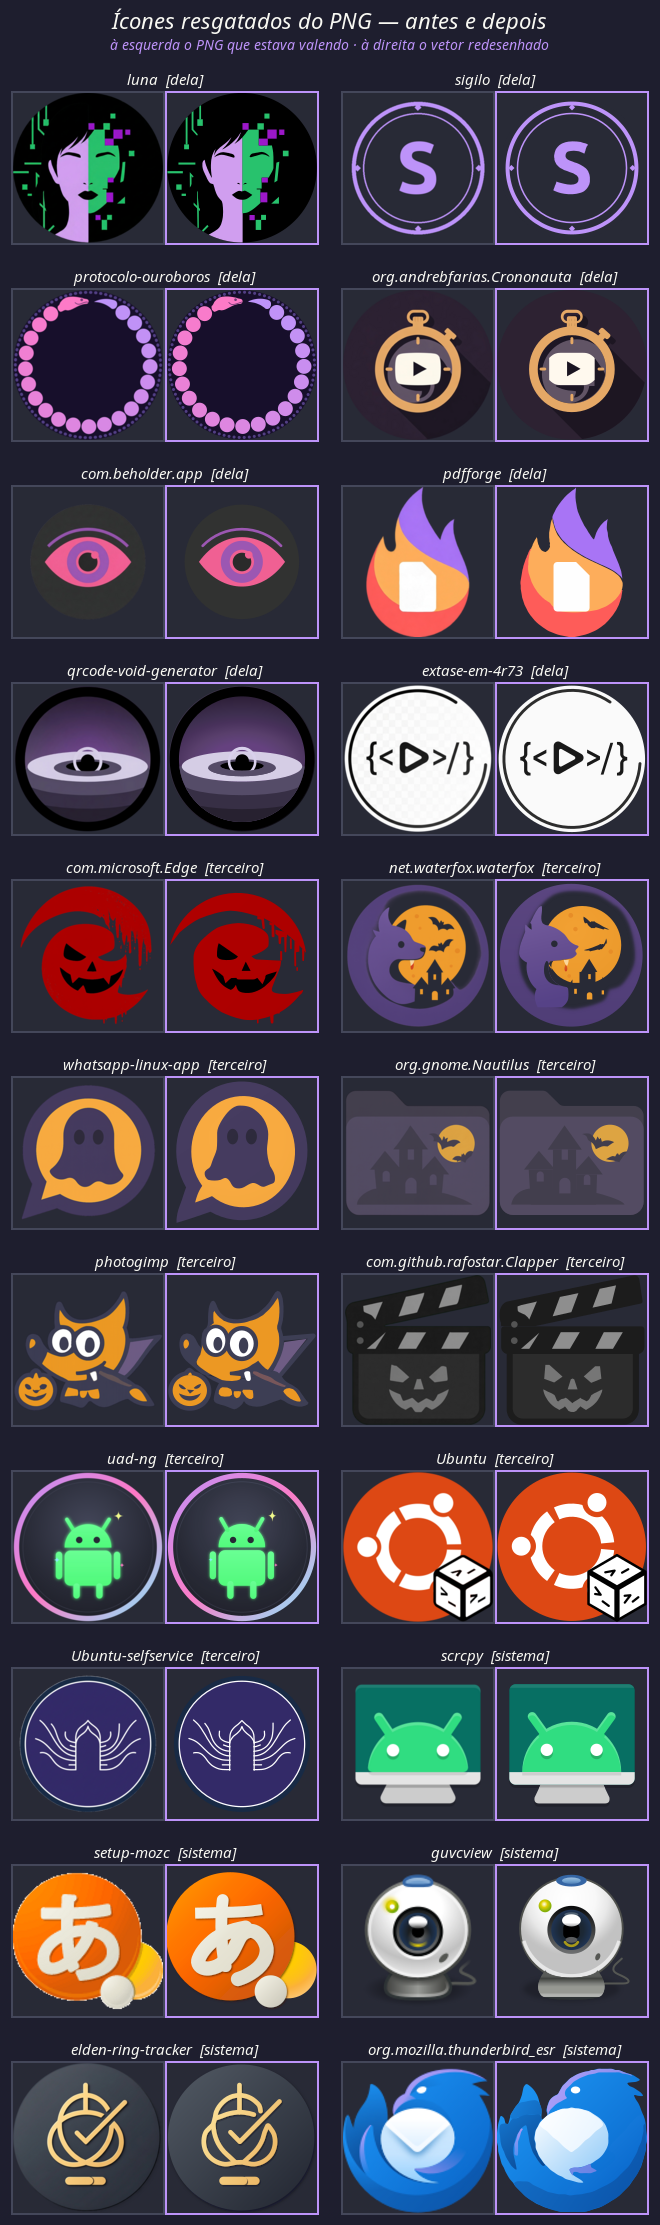
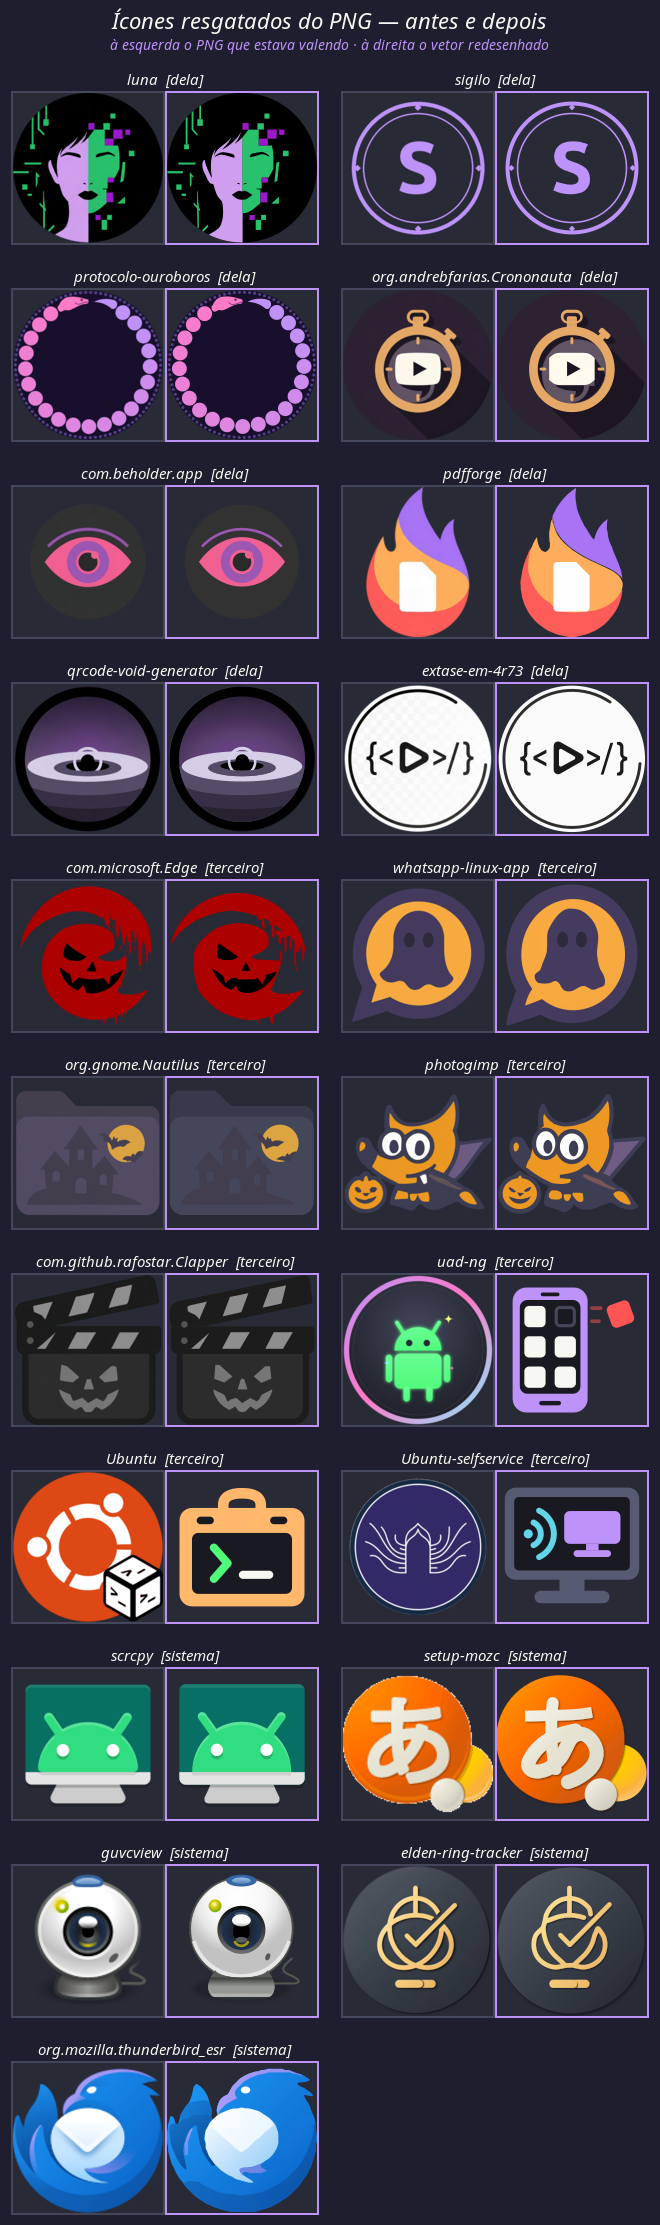
fix(textos): revisao da P67 - o mauve antes do verbo, a folha refeita pela direita e a trava da nota
A revisão da P67 achou a frase que a varredura deixou passar e a forma que o
teste não travava. Corrigido, com o teste antes da correção:

1. bin/meow, o comentário do chk_pastasxdg dizia no presente «do pack
   Catppuccin» e «o mauve volta sozinho». Passa ao desenho do pack no ar
   quando o PASTAS_XDG pede, e à pasta que volta à cor das outras.
2. tests/frases-velhas.sh: a classe 3 ganha a cor ANTES do verbo («o mauve
   volta»), que era a forma do bin/meow, e a classe 1 o «ainda» («o flavor que
   ainda não foi fotografado»). Com o teste novo e o bin/meow de antes, a
   classe 3 reprova na linha 473; as oito frases de prova da revisão, num
   arquivo novo de uma cópia descartável, reprovam todas.
3. O «?» do PASTAS_XDG (meow.conf.exemplo) e o pastas.map diziam «ao lado das
   mauve CHEIAS» duas linhas abaixo da pergunta «na cor das outras pastas».
   Passam à cor das outras pastas, com o mauve de fábrica ancorado em 08/08.
4. A folha ANTES-E-DEPOIS.png foi refeita pela direita: cada par recortado da
   de 12/09, a célula da direita dos cinco desenhos que mudaram trocada pelo
   SVG de hoje na receita do resgatados_folha.sh, e o par do Waterfox tirado.
   Conferido pixel a pixel (RMSE 0): fora das doze células da esquerda cujo PNG
   saiu do disco, é a folha que o script monta hoje, e as nove da esquerda com
   PNG no disco são as da folha velha. O PROCEDENCIA.md conta a costura.
5. A trava 5b: o nome do desenho que mudou tem de estar numa tabela com
[…]

Changed region(s): [[0.5152, 0.3721, 1.0, 1.0], [0.0, 0.4652, 0.4848, 1.0]]

diff --git a/assets/icones/PROCEDENCIA.md b/assets/icones/PROCEDENCIA.md
@@ -376,18 +376,27 @@ aparece na tela, não sobre apagar o desenho.
 gerado por `scripts/resgatados_folha.sh` a partir do mesmo mapa — se um ícone
 entrar ou sair do resgate, a folha refeita acompanha sozinha.
 
-**A folha de hoje é de 12/09/2026, e não se refaz aqui — medido em 25/09/2026,
-sprint P67.** O `resgatados_folha.sh` pede o PNG de origem no caminho que o mapa
-guarda, e 12 dos 21 não estão mais nesta máquina: os nove do `Dracula-Icones`,
-que saiu do disco, o do `scrcpy`, o do `guvcview` e o do Thunderbird do flatpak.
-Refeita pelo mesmo caminho, numa casa de brinquedo com os nove que sobraram, ela
-sai com doze molduras «sem o PNG» e perde a comparação que é a razão de ela
-existir. Então a de 12/09 fica, e o que mudou depois dela fica dito aqui. As
-distâncias são `compare -metric RMSE` a 150 px sobre o `#282A36` da folha, entre
-a célula da folha, o SVG de hoje e o PNG da esquerda — a régua da folha, e não a
-de 256 px do critério acima:
+**A folha de hoje é de 25/09/2026, sprint P67, e é a do `resgatados_folha.sh`
+com uma costura, dita aqui.** O script pede o PNG de origem no caminho que o
+mapa guarda, e 12 dos 21 não estão mais nesta máquina: os nove do
+`Dracula-Icones`, que saiu do disco, o do `scrcpy`, o do `guvcview` e o do
+Thunderbird do flatpak. Rodado hoje, ele sai com doze molduras «sem o PNG» e
+perde a comparação que é a razão de a folha existir. Então ela foi remontada a
+partir da de 12/09/2026: cada par recortado da velha, a célula da DIREITA dos
+cinco desenhos que mudaram trocada pelo SVG de hoje na receita do script
+(`rsvg-convert` a 150 px, sobre o `#282A36`, moldura de 2 px), e o par do
+`net.waterfox.waterfox`, que saiu do mapa em 23/09/2026 (P28), tirado — o
+resgate dele continua em `resgatados/`. Conferido pixel a pixel (RMSE 0): fora
+das doze células da esquerda que o script deixaria vazias, ela é a folha que o
+script monta hoje; e as nove da esquerda cujo PNG ainda está no disco são as da
+folha de 12/09. A costura só guardou o que o disco perdeu.
 
-| desenho | o que mudou depois da folha | folha × hoje | PNG × folha | PNG × hoje |
+O que a direita trocou, medido em 25/09/2026. As distâncias são `compare -metric
+RMSE` a 150 px sobre o `#282A36`, entre a célula da folha de 12/09, o SVG de
+hoje e o PNG da esquerda — a régua da folha, e não a de 256 px do critério
+acima:
+
+| desenho | o que mudou entre a folha de 12/09/2026 e esta | folha de 12/09 × hoje | PNG × folha de 12/09 | PNG × hoje |
 |---|---|---|---|---|
 | `org.gnome.Nautilus` | o corpo passou ao `surface0` e ao `surface1` do Dracula (P65, 25/09/2026; a conta a 256 px está no `packs/dracula/PROCEDENCIA.md`) | 0,026 | 0,012 | 0,028 |
 | `photogimp` | o traço, refeito junto com os autorais do COSMIC (15/09/2026) | 0,035 | 0,046 | 0,055 |
@@ -396,11 +405,16 @@ de 256 px do critério acima:
 | `Ubuntu-selfservice` | desenho novo, da leva do Dracula (15/09/2026) | 0,245 | 0,033 | 0,239 |
 
 Os três últimos passam do teto de 0,15 contra o PNG: não são mais decalque, são
-desenho novo com o nome do resgate. E a folha ainda mostra o
-`net.waterfox.waterfox`, que saiu do mapa em 23/09/2026 (P28) e cujo resgate
-continua em `resgatados/`. O `tests/frases-velhas.sh` cobra esta nota: um desenho
-que mude depois da folha, ou uma linha que entre ou saia do mapa, tem de estar
-nomeado aqui enquanto a folha não for refeita.
+desenho novo com o nome do resgate, e a folha agora mostra isso lado a lado.
+[Até a revisão da P67 (25/09/2026) esta nota dizia que a folha era a de 12/09 e
+que não se refazia aqui, e a tabela acima era o que a folha escondia.]
+
+O `tests/frases-velhas.sh` cobra esta nota em duas coisas. A data da primeira
+frase, «A folha de hoje é de…», é a do commit da folha: refeita a folha, a nota
+anda junto. E um desenho que mude depois da folha, ou uma linha que entre ou
+saia do mapa, tem de estar na primeira coluna de uma tabela cujo cabeçalho diga
+«depois da folha de» e a data dela, enquanto a folha não for refeita — nome
+citado de passagem, como os PNG que faltam, não conta.
 
 **Licença.** Os `dela` são obra dela. Os `terceiro` são redesenho de logo de
 terceiro já customizada por ela: a marca continua de quem é, e o uso aqui é o
